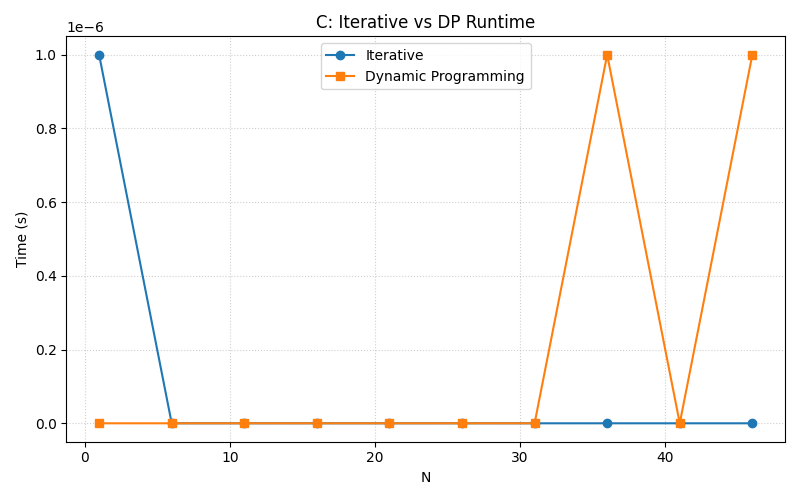
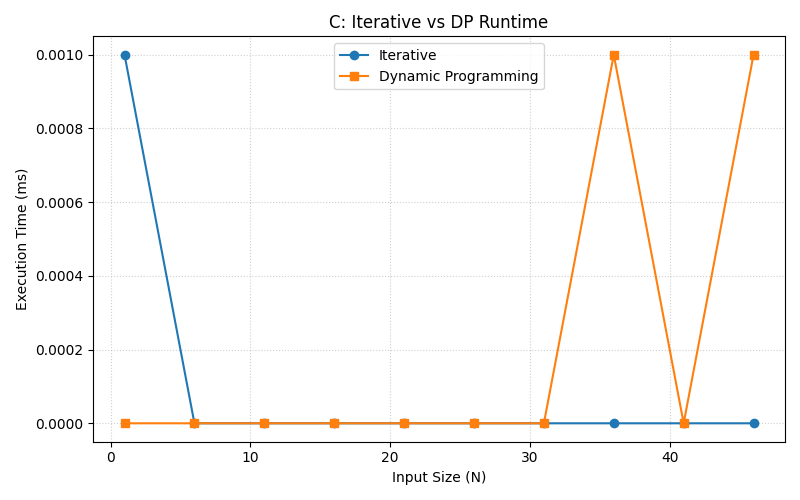
Tests: add intent comments; Plots: labeled axes, ms units; regenerate figures

diff --git a/plot_fib.py b/plot_fib.py
@@ -32,13 +32,19 @@ def parse_series(rows: List[Dict[str, str]]):
     return n, it, dp, rec
 
 
+def to_ms(values: List[float]) -> List[float]:
+    return [v * 1000 if (v is not None and not math.isnan(v)) else math.nan for v in values]
+
+
 def plot_iter_dp(n, it, dp, title: str, outfile: Path):
+    it_ms = to_ms(it)
+    dp_ms = to_ms(dp)
     plt.figure(figsize=(8, 5))
-    plt.plot(n, it, marker="o", label="Iterative")
-    plt.plot(n, dp, marker="s", label="Dynamic Programming")
+    plt.plot(n, it_ms, marker="o", label="Iterative")
+    plt.plot(n, dp_ms, marker="s", label="Dynamic Programming")
     plt.title(title)
-    plt.xlabel("N")
-    plt.ylabel("Time (s)")
+    plt.xlabel("Input Size (N)")
+    plt.ylabel("Execution Time (ms)")
     plt.legend()
     plt.grid(True, linestyle=":", alpha=0.6)
     plt.tight_layout()
@@ -47,12 +53,13 @@ def plot_iter_dp(n, it, dp, title: str, outfile: Path):
 
 
 def plot_recursive_log(n, rec, title: str, outfile: Path):
+    rec_ms = to_ms(rec)
     plt.figure(figsize=(8, 5))
-    plt.plot(n, rec, marker="^", color="crimson", label="Recursive")
+    plt.plot(n, rec_ms, marker="^", color="crimson", label="Recursive")
     plt.yscale("log")
     plt.title(title + " (Log-Scale Y)")
-    plt.xlabel("N")
-    plt.ylabel("Time (s, log)")
+    plt.xlabel("Input Size (N)")
+    plt.ylabel("Execution Time (ms, log)")
     plt.grid(True, which="both", linestyle=":", alpha=0.6)
     plt.legend()
     plt.tight_layout()
@@ -66,8 +73,8 @@ def plot_ops(n, it, dp, rec, title: str, outfile: Path):
     plt.plot(n, dp, marker="s", label="DP Ops")
     plt.plot(n, rec, marker="^", label="Recursive Ops")
     plt.title(title)
-    plt.xlabel("N")
-    plt.ylabel("Operations (unitless)")
+    plt.xlabel("Input Size (N)")
+    plt.ylabel("Operation Count (unitless)")
     plt.legend()
     plt.grid(True, linestyle=":", alpha=0.6)
     plt.tight_layout()
@@ -91,7 +98,7 @@ def plot_speedup(n, c_times, py_times, label: str, title: str, outfile: Path):
     plt.plot(n, sp, marker="d", label=label)
     plt.axhline(1.0, color="gray", linestyle="--", linewidth=1)
     plt.title(title)
-    plt.xlabel("N")
+    plt.xlabel("Input Size (N)")
     plt.ylabel("Speedup (Python/C)")
     plt.legend()
     plt.grid(True, linestyle=":", alpha=0.6)
@@ -134,11 +141,9 @@ def main():
     plot_ops(n_py_ops, it_py_o, dp_py_o, rec_py_o, "Python: Operations vs N", ROOT / "ops_py.png")
 
     # Cross-language speedup (Python/C) for each algorithm
-    # Align by index; assumes same Ns for both datasets
     if n_c == n_py:
         plot_speedup(n_c, it_c_t, it_py_t, "Iterative", "Speedup (Python/C) - Iterative", ROOT / "speedup_iter.png")
         plot_speedup(n_c, dp_c_t, dp_py_t, "DP", "Speedup (Python/C) - DP", ROOT / "speedup_dp.png")
-        # recursive likely missing at higher N; plot where present
         plot_speedup(n_c, rec_c_t, rec_py_t, "Recursive", "Speedup (Python/C) - Recursive", ROOT / "speedup_rec.png")
     else:
         print("N grids differ between C and Python; skipping speedup charts.")

diff --git a/tests_fib.py b/tests_fib.py
@@ -9,6 +9,7 @@ def run(cmd: str) -> str:
     return p.stdout.strip()
 
 
+# Expect the printed iterative series for N=7 to match the first 7 Fibonacci numbers (1-indexed):
 def test_python_iterative_print_series():
     out = run("python3 fib.py 7 0 --print")
     # First line is label in non-CSV modes
@@ -18,12 +19,16 @@ def test_python_iterative_print_series():
     assert series == "1 1 2 3 5 8 13"
 
 
+# Expect CSV output for mode=3 (all) to contain six comma-separated values: time,ops for each of
+# iterative, dp, and recursive implementations.
 def test_python_all_csv_shape():
     out = run("python3 fib.py 10 3")
     parts = out.split(",")
     assert len(parts) == 6  # t_i,ops_i,t_dp,ops_dp,t_rec,ops_rec
 
 
+# If the C executable is built, expect CSV output for mode=3 to contain either
+# 6 fields (all three algos) or 4 if the recursive portion was truncated.
 def test_c_iterative_csv_shape():
     # Requires compiled C executable as ./fib.exe
     try:
